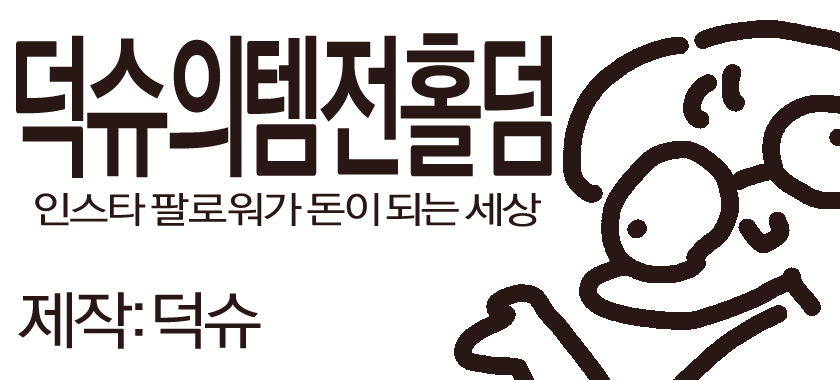
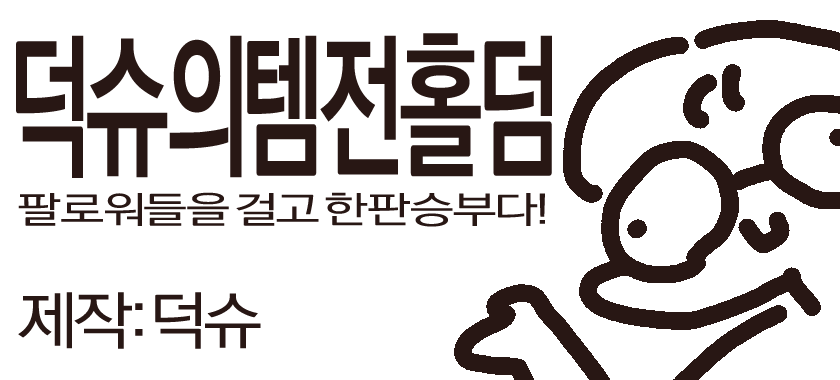
chore: 타이틀을 '덕슈의템전홀덤'으로 변경 + 타이틀 배너 이미지 교체
- index.html title/h1/img alt, fan.html title, 서버 부팅 로그 문구 통일
- public/title-banner.png 갱신 (덕슈의템전홀덤 신규 배너, 840x380)

Changed region(s): [[0.0, 0.4921, 0.65, 0.6079]]

diff --git a/public/index.html b/public/index.html
@@ -3,15 +3,15 @@
 <head>
 <meta charset="UTF-8" />
 <meta name="viewport" content="width=device-width, initial-scale=1.0" />
-<title>덕슈홀덤</title>
+<title>덕슈의템전홀덤</title>
 <link rel="stylesheet" href="style.css" />
 </head>
 <body>
 
 <div id="screen-home" class="screen">
   <div class="card home-card">
-    <img id="title-banner" class="title-banner" src="title-banner.png" alt="덕슈홀덤" onerror="this.style.display='none'">
-    <h1>🃏 덕슈홀덤</h1>
+    <img id="title-banner" class="title-banner" src="title-banner.png" alt="덕슈의템전홀덤" onerror="this.style.display='none'">
+    <h1>🃏 덕슈의템전홀덤</h1>
     <p class="subtitle">인스타그램 연동 팔로워 대전쟁</p>
 
     <div class="tabs">

diff --git a/public/fan.html b/public/fan.html
@@ -3,7 +3,7 @@
 <head>
 <meta charset="UTF-8" />
 <meta name="viewport" content="width=device-width, initial-scale=1.0" />
-<title>덕슈홀덤 - 응원하기</title>
+<title>덕슈의템전홀덤 - 응원하기</title>
 <link rel="stylesheet" href="style.css" />
 <link rel="stylesheet" href="fan.css" />
 </head>

diff --git a/server.js b/server.js
@@ -755,7 +755,7 @@ io.on("connection", (socket) => {
 const PORT = process.env.PORT || 3000;
 if (require.main === module) {
   server.listen(PORT, () => {
-    console.log(`덕슈홀덤 서버 실행 중: http://localhost:${PORT}`);
+    console.log(`덕슈의템전홀덤 서버 실행 중: http://localhost:${PORT}`);
   });
 }
 